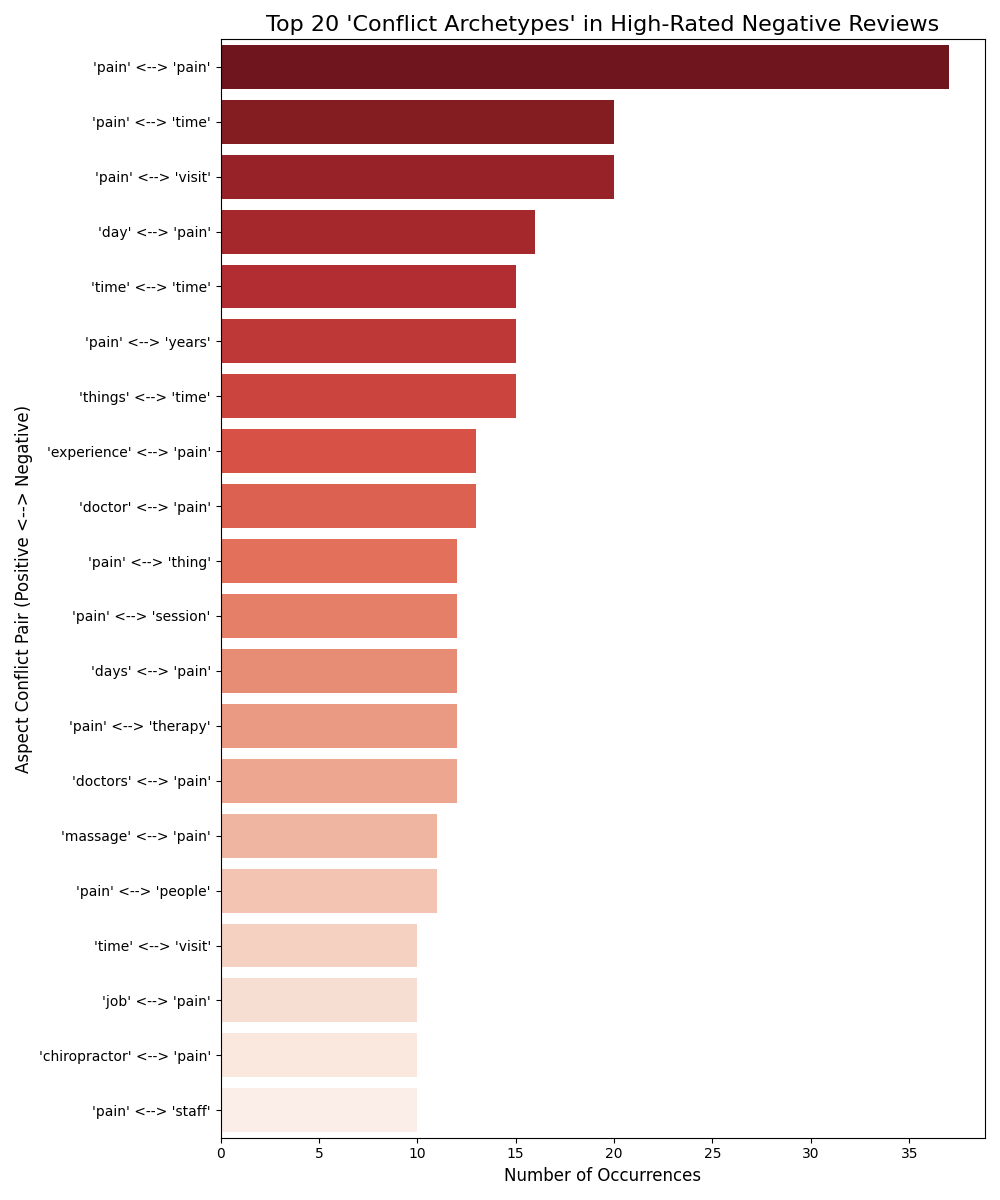
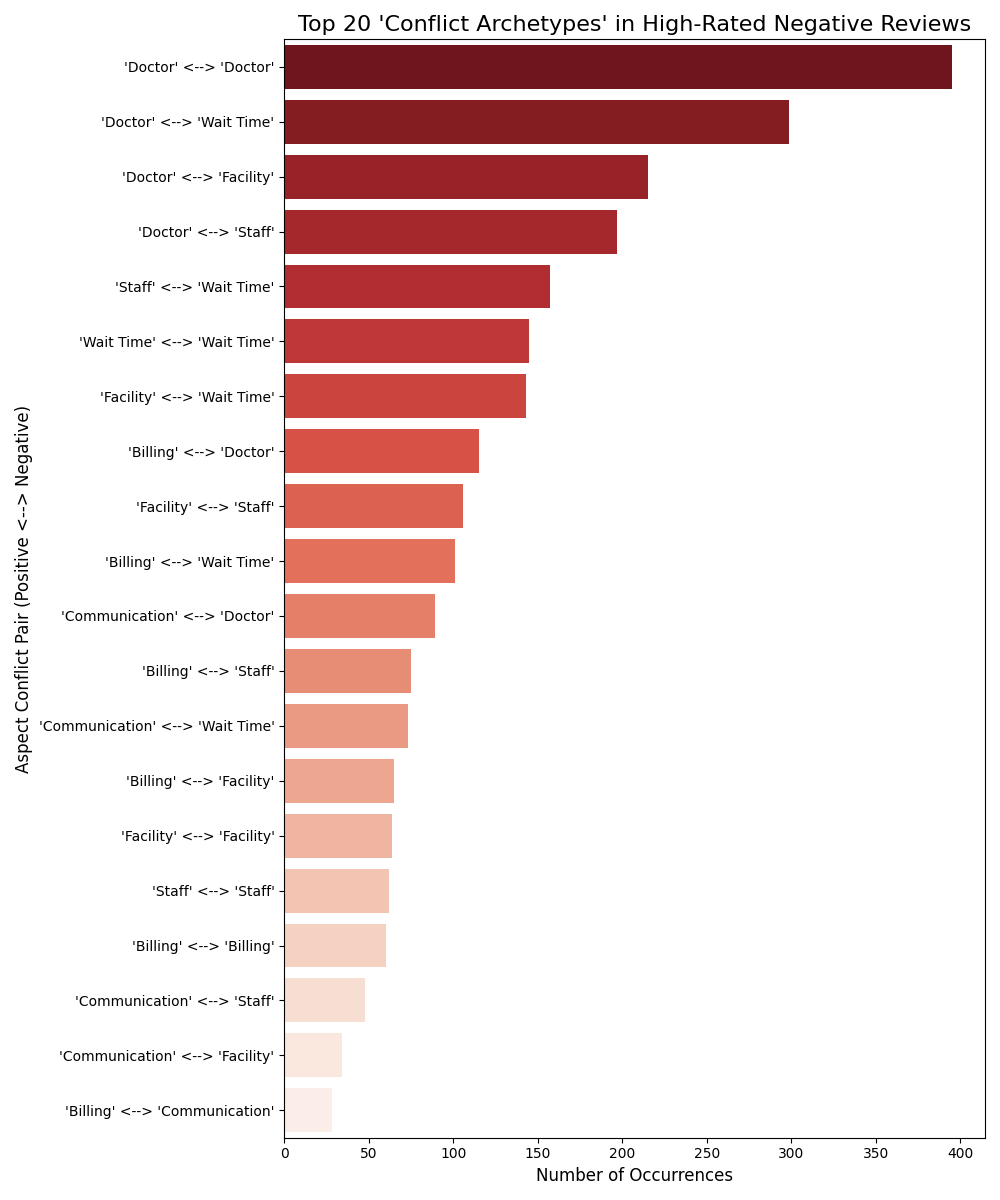
working graph(pain solved)

diff --git a/absa_emotion_analysis.py b/absa_emotion_analysis.py
@@ -3,14 +3,28 @@ import spacy
 import torch
 from transformers import AutoTokenizer, AutoModelForSequenceClassification
 from tqdm import tqdm
+import re
 
 # ---------- CONFIG ----------
 INPUT_CSV = "medical_sentiment_mismatch.csv"
-OUTPUT_CSV = "aspect_level_emotion_analysis.csv"
+OUTPUT_CSV = "aspect_level_emotion_analysis.csv" # We will overwrite this
 GOEMO_MODEL = "monologg/bert-base-cased-goemotions-original"
 DEVICE = "cuda" if torch.cuda.is_available() else "cpu"
 BATCH_SIZE = 32
 # ----------------------------
+
+# ❗❗ --- THIS IS THE NEW "BRAIN" --- ❗❗
+# We define our domain-specific keywords.
+# This is much smarter than the old grammar rules.
+ASPECT_KEYWORDS = {
+    'Doctor': ['doctor', 'dr', 'physician', 'surgeon', 'specialist', 'md'],
+    'Staff': ['staff', 'receptionist', 'front desk', 'nurse', 'nurses', 'admin', 'assistant'],
+    'Wait Time': ['wait', 'waiting', 'long', 'hour', 'hours', 'appointment', 'schedule', 'punctual'],
+    'Billing': ['bill', 'billing', 'cost', 'price', 'insurance', 'charge', 'charged', 'payment', 'expensive'],
+    'Communication': ['explained', 'listened', 'answered', 'questions', 'communication', 'rude', 'friendly'],
+    'Facility': ['facility', 'office', 'clinic', 'building', 'clean', 'dirty', 'parking', 'room']
+}
+# -------------------------------------
 
 print(f"🟢 Using device: {DEVICE}")
 
@@ -22,21 +36,14 @@ except FileNotFoundError:
     exit()
 
 mismatch_df = df[df['sentiment_mismatch'] == True].copy()
-#
-# ❗❗❗ THIS IS THE BUG FIX ❗❗❗
-# We reset the index to get the 'original_index' (e.g., 25, 35, 53)
-#
 mismatch_df = mismatch_df.reset_index().rename(columns={'index': 'original_index'})
-
 print(f"Total reviews: {len(df)}, Mismatched reviews to analyze: {len(mismatch_df)}")
 
-if mismatch_df.empty:
-    print("No mismatched reviews found. Exiting.")
-    exit()
-
-# Load NLP Models
-print("Loading spaCy model...")
-nlp = spacy.load("en_core_web_sm", disable=["ner"])
+# Load Models
+print("Loading spaCy model (for sentence splitting)...")
+# We only use spaCy to split text into sentences
+nlp = spacy.load("en_core_web_sm", disable=["tagger", "parser", "ner", "lemmatizer"])
+nlp.add_pipe('sentencizer')
 
 print(f"Loading GoEmotions model: {GOEMO_MODEL}...")
 tokenizer = AutoTokenizer.from_pretrained(GOEMO_MODEL)
@@ -65,55 +72,65 @@ def get_top_emotions_batch(texts, top_n=3):
         top_emotions_list.append(', '.join(emotions))
     return top_emotions_list
 
-# --- Aspect Extraction Function ---
-def extract_aspects_with_context(doc):
-    aspects = []
-    for token in doc:
-        if token.dep_ == "amod" and token.head.pos_ == "NOUN":
-            aspect = token.head.text.lower()
-            opinion = token.text.lower()
-            aspects.append((aspect, opinion, token.sent.text))
-        elif token.dep_ in ("nsubj", "nsubjpass") and token.head.pos_ == "ADJ":
-            aspect = token.text.lower()
-            opinion = token.head.text.lower()
-            aspects.append((aspect, opinion, token.sent.text))
-    seen_sentences = set()
-    unique_aspects = []
-    for aspect, opinion, sentence in aspects:
-        if sentence not in seen_sentences:
-            unique_aspects.append((aspect, opinion, sentence))
-            seen_sentences.add(sentence)
-    return unique_aspects
+# --- Aspect Extraction Function (NEW) ---
+def extract_keyword_aspects(text):
+    """
+    Finds sentences that contain our keywords.
+    Returns a dictionary of {Aspect: [list of sentences]}
+    """
+    doc = nlp(text)
+    aspect_sentences = {key: [] for key in ASPECT_KEYWORDS}
+    
+    for sent in doc.sents:
+        sent_text = sent.text.lower()
+        found_aspect = False
+        for aspect_name, keywords in ASPECT_KEYWORDS.items():
+            # Use regex to find whole words
+            if any(re.search(r'\b' + re.escape(kw) + r'\b', sent_text) for kw in keywords):
+                aspect_sentences[aspect_name].append(sent.text)
+                found_aspect = True
+                # Optional: break after first match to avoid one sentence
+                # being tagged as both 'Doctor' and 'Staff'
+                break 
+    return aspect_sentences
 
-# --- Main Processing Loop ---
+
+# --- Main Processing Loop (NEW) ---
 print("Processing mismatched reviews for Aspect-Level Emotion...")
 results_list = []
 
 for index, row in tqdm(mismatch_df.iterrows(), total=mismatch_df.shape[0]):
     text = str(row['text'])
-    doc = nlp(text)
-    extracted_aspects = extract_aspects_with_context(doc)
-    if not extracted_aspects: continue
+    
+    # 1. Find all sentences related to our aspects
+    aspect_sentences_map = extract_keyword_aspects(text)
+    
+    # 2. Batch-analyze all found sentences
+    all_sentences = []
+    all_aspects = []
+    for aspect_name, sentences in aspect_sentences_map.items():
+        for sent in sentences:
+            all_sentences.append(sent)
+            all_aspects.append(aspect_name)
+    
+    if not all_sentences:
+        continue
 
-    sentences_to_analyze = [sent for _, _, sent in extracted_aspects]
+    # 3. Get emotions for this review's sentences
     try:
-        top_emotions = get_top_emotions_batch(sentences_to_analyze, top_n=3)
+        top_emotions = get_top_emotions_batch(all_sentences, top_n=3)
     except Exception as e:
         print(f"Error processing batch: {e}")
         continue
     
-    for i, (aspect, opinion, sentence) in enumerate(extracted_aspects):
+    # 4. Save the clean results
+    for i, aspect_name in enumerate(all_aspects):
         results_list.append({
-            #
-            # ❗❗❗ THIS IS THE BUG FIX ❗❗❗
-            # We are saving the 'original_index' as the 'review_id'
-            #
-            'review_id': row['original_index'], 
+            'review_id': row['original_index'], # The correct, original ID
             'stars': row['stars'],
             'vader_sentiment': row['vader_sentiment'],
-            'aspect': aspect,
-            'opinion': opinion,
-            'sentence': sentence,
+            'aspect': aspect_name, # The CLEAN aspect (e.g., "Doctor", "Staff")
+            'sentence': all_sentences[i],
             'sentence_top_emotions': top_emotions[i]
         })
 
@@ -122,6 +139,8 @@ if results_list:
     final_aspect_df = pd.DataFrame(results_list)
     final_aspect_df.to_csv(OUTPUT_CSV, index=False)
     print(f"\n✅ Success! Aspect-level emotion analysis complete.")
-    print(f"Output saved to: {OUTPUT_CSV}")
+    print(f"New, clean data saved to: {OUTPUT_CSV}")
+    print("\nSample Output (Notice the clean 'aspect' column):")
+    print(final_aspect_df.head())
 else:
     print("\nNo aspects were extracted from the mismatched reviews.")
